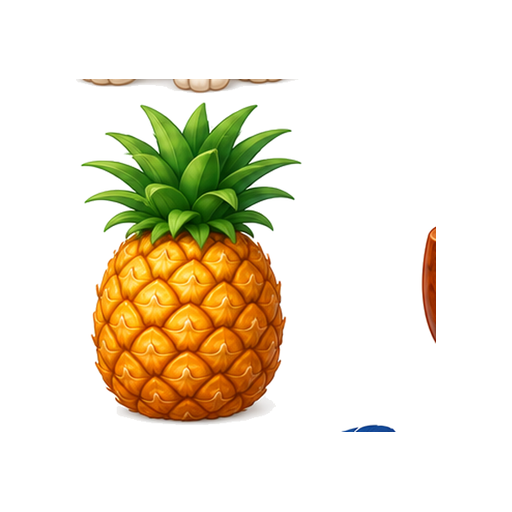
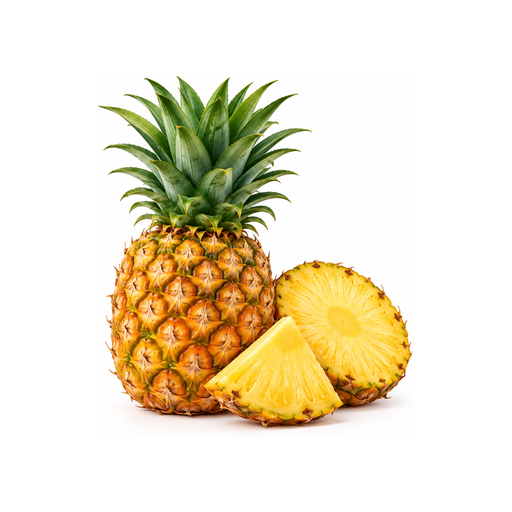
v194: Process and integrate 6 native drawings from EMOJIS14 (ANANA, PINA, PUMA, SIRENA, SOPA, VELA)

Changed region(s): [[0.1562, 0.1562, 0.875, 0.8438]]

diff --git a/index.html b/index.html
@@ -9,7 +9,7 @@
   <title>CRIN Aventuras de Lectoescritura</title>
   
   <script>
-    const CURRENT_APP_VERSION = 'v193';
+    const CURRENT_APP_VERSION = 'v194';
 
     function forceAppUpdate() {
       if ('serviceWorker' in navigator) {
@@ -27,7 +27,7 @@
         localStorage.removeItem('crin_custom_rally_drawings');
       } catch(e) {}
       const u = new URL(window.location.href);
-      u.searchParams.set('v', '193');
+      u.searchParams.set('v', '194');
       u.searchParams.set('_b', Date.now());
       window.location.replace(u.toString());
     }
@@ -49,7 +49,7 @@
       const urlParams = new URLSearchParams(window.location.search);
       const urlVer = urlParams.get('v');
       const hasBust = urlParams.has('_b');
-      if ((!urlVer || (urlVer !== '193' && urlVer !== 'v193')) && !hasBust) {
+      if ((!urlVer || (urlVer !== '194' && urlVer !== 'v194')) && !hasBust) {
         forceAppUpdate();
       } else if (hasBust || urlVer) {
         try {
@@ -1171,7 +1171,7 @@
           <!-- SELECTOR DE TAREA SEMANAL -->
           <div class="panel-card" style="margin-bottom: 12px; background: linear-gradient(135deg, #74B9FF 0%, #0984E3 100%); color: white; padding: 12px 14px; border-radius: 16px; box-shadow: 0 4px 12px rgba(9, 132, 227, 0.25);">
             <div style="font-weight: bold; font-size: 13px; margin-bottom: 6px; display: flex; align-items: center; justify-content: space-between;">
-              <span>🎯 Seleccionar Tarea Activa: <span style="font-size: 9px; background: #2ECC71; color: white; border-radius: 6px; padding: 1px 5px; font-weight: bold; vertical-align: middle;">v193</span> <button onclick="forceAppUpdate()" style="background: rgba(255,255,255,0.3); border: 1px solid white; color: white; border-radius: 6px; padding: 1px 6px; font-size: 9px; font-weight: bold; cursor: pointer; margin-left: 4px;">🔄 Recargar v193</button></span>
+              <span>🎯 Seleccionar Tarea Activa: <span style="font-size: 9px; background: #2ECC71; color: white; border-radius: 6px; padding: 1px 5px; font-weight: bold; vertical-align: middle;">v194</span> <button onclick="forceAppUpdate()" style="background: rgba(255,255,255,0.3); border: 1px solid white; color: white; border-radius: 6px; padding: 1px 6px; font-size: 9px; font-weight: bold; cursor: pointer; margin-left: 4px;">🔄 Recargar v194</button></span>
               <span id="active-task-badge" style="background: rgba(255,255,255,0.25); border-radius: 10px; padding: 2px 8px; font-size: 10px;">4 Misiones</span>
             </div>
             <select id="active-task-select" onchange="changeActiveTaskPack(this.value)" style="width: 100%; padding: 8px 12px; border-radius: 12px; border: none; font-weight: bold; font-size: 13px; color: #2D3436; background: white; cursor: pointer; box-shadow: 0 4px 10px rgba(0,0,0,0.15);">
@@ -1458,7 +1458,7 @@
       <div id="screen-therapist" class="screen">
         <div style="display: flex; justify-content: space-between; align-items: center; margin-bottom: 12px;">
           <h2 style="font-size: 18px; margin: 0;">⚙ Panel Terapeuta / Padres</h2>
-          <span style="font-size: 10px; background: #2ECC71; color: white; border-radius: 8px; padding: 2px 6px; font-weight: bold;">v193</span>
+          <span style="font-size: 10px; background: #2ECC71; color: white; border-radius: 8px; padding: 2px 6px; font-weight: bold;">v194</span>
         </div>
         
         <!-- 📌 PASO 1: GESTOR Y EDITOR DEL DICCIONARIO DE DIBUJOS Y PALABRAS -->
@@ -3148,7 +3148,7 @@
       if (!url) return '';
       const str = String(url).trim();
       if (str.startsWith('assets/') || str.includes('/assets/')) {
-        const v = (typeof CURRENT_APP_VERSION !== 'undefined') ? CURRENT_APP_VERSION : '193';
+        const v = (typeof CURRENT_APP_VERSION !== 'undefined') ? CURRENT_APP_VERSION : '194';
         if (str.includes('?')) return str + '&v=' + v;
         return str + '?v=' + v;
       }
@@ -3214,12 +3214,12 @@
 
     const emojiMap = {
       'LUNA': 'assets/luna.png', 'NOCHE': 'assets/noche.png', 'SOL': 'assets/sol.png', 'ESTRELLA': 'assets/estrella.png', 'BLANCO': 'assets/blanco.png', 'NEGRO': 'assets/negro.png',
-      'LECHE': 'assets/leche.png', 'AGUA': 'assets/agua.png', 'SOPA': '🍲', 'CENA': 'assets/cena.png', 'PLATO': 'assets/plato.png', 'PAN': 'assets/pan.png',
+      'LECHE': 'assets/leche.png', 'AGUA': 'assets/agua.png', 'SOPA': 'assets/sopa.png', 'CENA': 'assets/cena.png', 'PLATO': 'assets/plato.png', 'PAN': 'assets/pan.png',
       'MANZANA': 'assets/manzana.png', 'PERA': 'assets/pera.png', 'BANANA': 'assets/banana.png', 'BANANO': 'assets/banana.png', 'PLATANO': 'assets/banana.png', 'ANANÁ': 'assets/anana.png', 'ANANA': 'assets/anana.png', 'SANDÍA': 'assets/sandia.png', 'SANDIA': 'assets/sandia.png', 'LIMÓN': 'assets/limon.png', 'LIMON': 'assets/limon.png', 'LIMA': '🍏', 'POMELO': 'assets/pomelo.png', 'PIÑA': 'assets/pina.png', 'PINA': 'assets/pina.png', 'COCO': 'assets/coco.png',
       'CARAMELO': 'assets/caramelo.png', 'CONFITE': '🍭', 'CAFÉ': 'assets/cafe.png', 'CAFE': 'assets/cafe.png', 'TAZA': 'assets/taza.png', 'MATE': 'assets/mate.png', 'FIDEOS': 'assets/fideo.png', 'FIDEO': 'assets/fideo.png',
-      'GATO': 'assets/gato.png', 'FELINO': '🐅', 'PERRO': 'assets/perro.png', 'OSO': 'assets/oso.png', 'PUMA': '🐆', 'LEÓN': 'assets/leon.png', 'LEON': 'assets/leon.png', 'RATÓN': 'assets/raton.png', 'RATON': 'assets/raton.png', 'MONO': 'assets/mono.png', 'MONITO': 'assets/mono.png', 'JIRAFA': 'assets/jirafa.png',
-      'PATO': 'assets/pato.png', 'RANA': '🐸', 'SAPO': 'assets/sapo.png', 'SPO': 'assets/sapo.png', 'PÁJARO': 'assets/pajaro.png', 'PAJARO': 'assets/pajaro.png', 'PEZ': 'assets/pez.png', 'FOCA': 'assets/foca.png', 'SERPIENTE': 'assets/serpiente.png', 'SIRENA': '🧜♀', 'MARIPOSA': 'assets/mariposa.png', 'TOPO': 'assets/topo.png', 'COLA': 'assets/cola.png',
-      'HOJA': 'assets/hoja.png', 'ÁRBOL': 'assets/arbol.png', 'ARBOL': 'assets/arbol.png', 'SEMILLA': 'assets/semilla.png', 'PINO': 'assets/pino.png', 'FLOR': 'assets/flor.png', 'ROSA': 'assets/rosa.png', 'LOMA': 'assets/loma.png', 'MONTAÑA': 'assets/montana.png', 'MONTANA': 'assets/montana.png', 'FUEGO': 'assets/fuego.png', 'ESTUFA': 'assets/estufa.png', 'POZO': 'assets/pozo.png', 'TÚNEL': 'assets/tunel.png', 'TUNEL': 'assets/tunel.png', 'CERA': '🍯', 'VELA': '🕯', 'MELÓN': 'assets/melon.png', 'MELON': 'assets/melon.png', 'PIMIENTO': 'assets/pimiento.png', 'TOMATE': 'assets/tomate.png', 'ZANAHORIA': 'assets/zanahoria.png',
+      'GATO': 'assets/gato.png', 'FELINO': '🐅', 'PERRO': 'assets/perro.png', 'OSO': 'assets/oso.png', 'PUMA': 'assets/puma.png', 'LEÓN': 'assets/leon.png', 'LEON': 'assets/leon.png', 'RATÓN': 'assets/raton.png', 'RATON': 'assets/raton.png', 'MONO': 'assets/mono.png', 'MONITO': 'assets/mono.png', 'JIRAFA': 'assets/jirafa.png',
+      'PATO': 'assets/pato.png', 'RANA': '🐸', 'SAPO': 'assets/sapo.png', 'SPO': 'assets/sapo.png', 'PÁJARO': 'assets/pajaro.png', 'PAJARO': 'assets/pajaro.png', 'PEZ': 'assets/pez.png', 'FOCA': 'assets/foca.png', 'SERPIENTE': 'assets/serpiente.png', 'SIRENA': 'assets/sirena.png', 'MARIPOSA': 'assets/mariposa.png', 'TOPO': 'assets/topo.png', 'COLA': 'assets/cola.png',
+      'HOJA': 'assets/hoja.png', 'ÁRBOL': 'assets/arbol.png', 'ARBOL': 'assets/arbol.png', 'SEMILLA': 'assets/semilla.png', 'PINO': 'assets/pino.png', 'FLOR': 'assets/flor.png', 'ROSA': 'assets/rosa.png', 'LOMA': 'assets/loma.png', 'MONTAÑA': 'assets/montana.png', 'MONTANA': 'assets/montana.png', 'FUEGO': 'assets/fuego.png', 'ESTUFA': 'assets/estufa.png', 'POZO': 'assets/pozo.png', 'TÚNEL': 'assets/tunel.png', 'TUNEL': 'assets/tunel.png', 'CERA': '🍯', 'VELA': 'assets/vela.png', 'MELÓN': 'assets/melon.png', 'MELON': 'assets/melon.png', 'PIMIENTO': 'assets/pimiento.png', 'TOMATE': 'assets/tomate.png', 'ZANAHORIA': 'assets/zanahoria.png',
       'LATA': 'assets/lata.png', 'PILA': 'assets/pila.png', 'LLAVE': 'assets/llave.png', 'LÁPIZ': 'assets/lapiz.png', 'LAPIZ': 'assets/lapiz.png', 'LIBRO': 'assets/libro.png', 'CUENTO': 'assets/cuento.png', 'MAPA': 'assets/mapa.png', 'TIJERA': 'assets/tijera.png', 'SOMBRERO': 'assets/sombrero.png', 'SOMBRILLA': 'assets/sombrilla.png', 'PIPA': 'assets/pipa.png', 'PITO': 'assets/silbato.png', 'SILBATO': 'assets/silbato.png', 'JAULA': 'assets/jaula.png',
       'DADO': 'assets/dado.png', 'FICHA': 'assets/ficha.png', 'TAPA': '📦', 'CAJA': 'assets/caja.png', 'CAJÓN': 'assets/cajon.png', 'CAJON': 'assets/cajon.png', 'TELA': 'assets/tela.png', 'LANA': 'assets/lana.png', 'TÍTERE': 'assets/titere.png', 'TITERE': 'assets/titere.png', 'CHALECO': 'assets/chaleco.png', 'FANTASMA': 'assets/fantasma.png', 'FARO': 'assets/faro.png', 'GAFAS': 'assets/anteojos.png', 'GAFA': 'assets/anteojos.png', 'ANTEOJOS': 'assets/anteojos.png', 'RIFA': 'assets/rifa.png',
       'CASA': 'assets/casa.png', 'TECHO': 'assets/techo.png', 'PUERTA': '🚪', 'PUENTE': 'assets/puente.png', 'CAMA': 'assets/cama.png', 'CUNA': 'assets/cuna.png', 'SILLA': '🪑', 'MESA': 'assets/mesa.png',
@@ -3394,7 +3394,7 @@
       '☀ Naturaleza y Cielo': ['🌙', '🌌', '☀', '⭐', '☁', '⬛', '⬜', '🍃', '🌳', '🌲', '🌸', '🌹', '⛰', '🏔', '🔥', '🕳', '🚇', '🕯', '✨', '⛲'],
       '🎨 Colores y Formas': ['🔴', '🔵', '🟡', '🟢', '⬜', '⬛', '🩷', '🩶', '🌟', '💎', '❤', '👀', '🎵', '✍', '✋', '👄', '☝', '🦶', '🐾', '😃'],
       '👨 Personas': ['👩', '👨', '👦', '👧', '👴', '👵', '🧔', '👩🦱', '👨💼', '👩🦳', '🧒', '🍼'],
-      '🖼 Fotos e Ilustraciones': ['assets/barco.png', 'assets/naranja.png', 'assets/oveja.png', 'assets/tijera.png', 'assets/buho.png', 'assets/cajita.png', 'assets/camino.png', 'assets/capivara.png', 'assets/cohete.png', 'assets/cosecha.png', 'assets/cuchara.png', 'assets/cuchillo.png', 'assets/elefante.png', 'assets/jefe.png', 'assets/linda.png', 'assets/loma.png', 'assets/mensajero.png', 'assets/minuto.png', 'assets/puente.png', 'assets/rifa.png', 'assets/sabana.png', 'assets/serpiente.png', 'assets/sofa.png', 'assets/sombrero.png', 'assets/taza.png', 'assets/tenedor.png', 'assets/vestido.png', 'assets/bluey.png', 'assets/globo.png', 'assets/violeta.png', 'assets/negro.png', 'assets/rojo.png', 'assets/zapato.png', 'assets/zapatilla.png', 'assets/montana.png', 'assets/sapo.png', 'assets/silbato.png', 'assets/mesa.png', 'assets/techo.png', 'assets/cola.png', 'assets/jirafa.png', 'assets/melon.png', 'assets/pimiento.png', 'assets/raton.png', 'assets/titere.png', 'assets/tomate.png', 'assets/zanahoria.png', 'assets/auto.png', 'assets/banana.png', 'assets/bicicleta.png', 'assets/bota.png', 'assets/cafe.png', 'assets/sandia.png', 'assets/caramelo.png', 'assets/chaleco.png', 'assets/estrella.png', 'assets/helado.png', 'assets/lana.png', 'assets/lapiz.png', 'assets/lata.png', 'assets/leche.png', 'assets/leon.png', 'assets/libro.png', 'assets/limon.png', 'assets/llave.png', 'assets/luna.png', 'assets/pelota.png', 'assets/sol.png', 'assets/telefono.png', 'assets/abuela.png', 'assets/abuelo.png', 'assets/agua.png', 'assets/amarillo.png', 'assets/anteojos.png', 'assets/arbol.png', 'assets/azul.png', 'assets/blanco.png', 'assets/boca.png', 'assets/cama.png', 'assets/casa.png', 'assets/cena.png', 'assets/cine.png', 'assets/coche_bebe.png', 'assets/coco.png', 'assets/copa.png', 'assets/corazon.png', 'assets/cuento.png', 'assets/cuna.png', 'assets/dado.png', 'assets/dedo.png', 'assets/dorado.png', 'assets/fantasma.png', 'assets/faro.png', 'assets/ficha.png', 'assets/fideo.png', 'assets/flor.png', 'assets/foca.png', 'assets/fuente.png', 'assets/foto.png', 'assets/fuego.png', 'assets/gato.png', 'assets/hoja.png', 'assets/jaula.png', 'assets/manzana.png', 'assets/mapa.png', 'assets/mano.png', 'assets/mariposa.png', 'assets/mate.png', 'assets/mono.png', 'assets/moto.png', 'assets/musica.png', 'assets/noche.png', 'assets/oso.png', 'assets/pajaro.png', 'assets/pala.png', 'assets/pan.png', MESA_SVG_ICON]
+      '🖼 Fotos e Ilustraciones': ['assets/anana.png', 'assets/pina.png', 'assets/puma.png', 'assets/sirena.png', 'assets/sopa.png', 'assets/vela.png', 'assets/barco.png', 'assets/naranja.png', 'assets/oveja.png', 'assets/tijera.png', 'assets/buho.png', 'assets/cajita.png', 'assets/camino.png', 'assets/capivara.png', 'assets/cohete.png', 'assets/cosecha.png', 'assets/cuchara.png', 'assets/cuchillo.png', 'assets/elefante.png', 'assets/jefe.png', 'assets/linda.png', 'assets/loma.png', 'assets/mensajero.png', 'assets/minuto.png', 'assets/puente.png', 'assets/rifa.png', 'assets/sabana.png', 'assets/serpiente.png', 'assets/sofa.png', 'assets/sombrero.png', 'assets/taza.png', 'assets/tenedor.png', 'assets/vestido.png', 'assets/bluey.png', 'assets/globo.png', 'assets/violeta.png', 'assets/negro.png', 'assets/rojo.png', 'assets/zapato.png', 'assets/zapatilla.png', 'assets/montana.png', 'assets/sapo.png', 'assets/silbato.png', 'assets/mesa.png', 'assets/techo.png', 'assets/cola.png', 'assets/jirafa.png', 'assets/melon.png', 'assets/pimiento.png', 'assets/raton.png', 'assets/titere.png', 'assets/tomate.png', 'assets/zanahoria.png', 'assets/auto.png', 'assets/banana.png', 'assets/bicicleta.png', 'assets/bota.png', 'assets/cafe.png', 'assets/sandia.png', 'assets/caramelo.png', 'assets/chaleco.png', 'assets/estrella.png', 'assets/helado.png', 'assets/lana.png', 'assets/lapiz.png', 'assets/lata.png', 'assets/leche.png', 'assets/leon.png', 'assets/libro.png', 'assets/limon.png', 'assets/llave.png', 'assets/luna.png', 'assets/pelota.png', 'assets/sol.png', 'assets/telefono.png', 'assets/abuela.png', 'assets/abuelo.png', 'assets/agua.png', 'assets/amarillo.png', 'assets/anteojos.png', 'assets/arbol.png', 'assets/azul.png', 'assets/blanco.png', 'assets/boca.png', 'assets/cama.png', 'assets/casa.png', 'assets/cena.png', 'assets/cine.png', 'assets/coche_bebe.png', 'assets/coco.png', 'assets/copa.png', 'assets/corazon.png', 'assets/cuento.png', 'assets/cuna.png', 'assets/dado.png', 'assets/dedo.png', 'assets/dorado.png', 'assets/fantasma.png', 'assets/faro.png', 'assets/ficha.png', 'assets/fideo.png', 'assets/flor.png', 'assets/foca.png', 'assets/fuente.png', 'assets/foto.png', 'assets/fuego.png', 'assets/gato.png', 'assets/hoja.png', 'assets/jaula.png', 'assets/manzana.png', 'assets/mapa.png', 'assets/mano.png', 'assets/mariposa.png', 'assets/mate.png', 'assets/mono.png', 'assets/moto.png', 'assets/musica.png', 'assets/noche.png', 'assets/oso.png', 'assets/pajaro.png', 'assets/pala.png', 'assets/pan.png', MESA_SVG_ICON]
     };
 
     const SUGGESTED_EMOJIS_MAP = {
@@ -3421,7 +3421,12 @@
       'OSO': ['assets/oso.png', '🐻', '🐼', '🐨', '🐾'],
       'LEÓN': ['🦁', '🐆', '🐅', '👑'],
       'LEON': ['🦁', '🐆', '🐅', '👑'],
-      'PUMA': ['🐆', '🐅', '🐾', '🦁'],
+      'PUMA': ['assets/puma.png', '🐆', '🐅', '🐾', '🦁'],
+      'SOPA': ['assets/sopa.png', '🍲', '🍜', '🥣'],
+      'ANANÁ': ['assets/anana.png', '🍍'],
+      'ANANA': ['assets/anana.png', '🍍'],
+      'PIÑA': ['assets/pina.png', '🍍'],
+      'PINA': ['assets/pina.png', '🍍'],
       'RATÓN': ['🐭', '🐁', '🧀', '🐀'],
       'RATON': ['🐭', '🐁', '🧀', '🐀'],
       'MONO': ['assets/mono.png', '🐒', '🐵', '🍌', '🦍'],
@@ -3434,7 +3439,7 @@
       'PEZ': ['🐟', '🐠', '🐡', '🌊'],
       'FOCA': ['assets/foca.png', '🦭', '🐧', '🧊', '🌊'],
       'SERPIENTE': ['🐍', '🦎', '🐉'],
-      'SIRENA': ['🧜♀', '🧜♂', '🌊', '🧜'],
+      'SIRENA': ['assets/sirena.png', '🧜♀', '🧜♂', '🌊', '🧜'],
       'MARIPOSA': ['assets/mariposa.png', '🦋', '🌸', '🐝', '🐞'],
       'TOPO': ['🦔', '🦡', '🐁', '🕳'],
       'COLA': ['🐕', '🐾', '🦨', '🐈'],
@@ -3456,7 +3461,7 @@
       'TÚNEL': ['🚇', '🚂', '🕳', '⛰'],
       'TUNEL': ['🚇', '🚂', '🕳', '⛰'],
       'CERA': ['🍯', '🐝', '🕯', '🪔'],
-      'VELA': ['🕯', '🪔', '🔥', '🎂'],
+      'VELA': ['assets/vela.png', '🕯', '🪔', '🔥', '🎂'],
       'LATA': ['🥫', '🥤', '🍺', '📦'],
       'PILA': ['🔋', '🪫', '⚡', '🔌'],
       'LLAVE': ['🔑', '🗝', '🔐', '🚪'],
